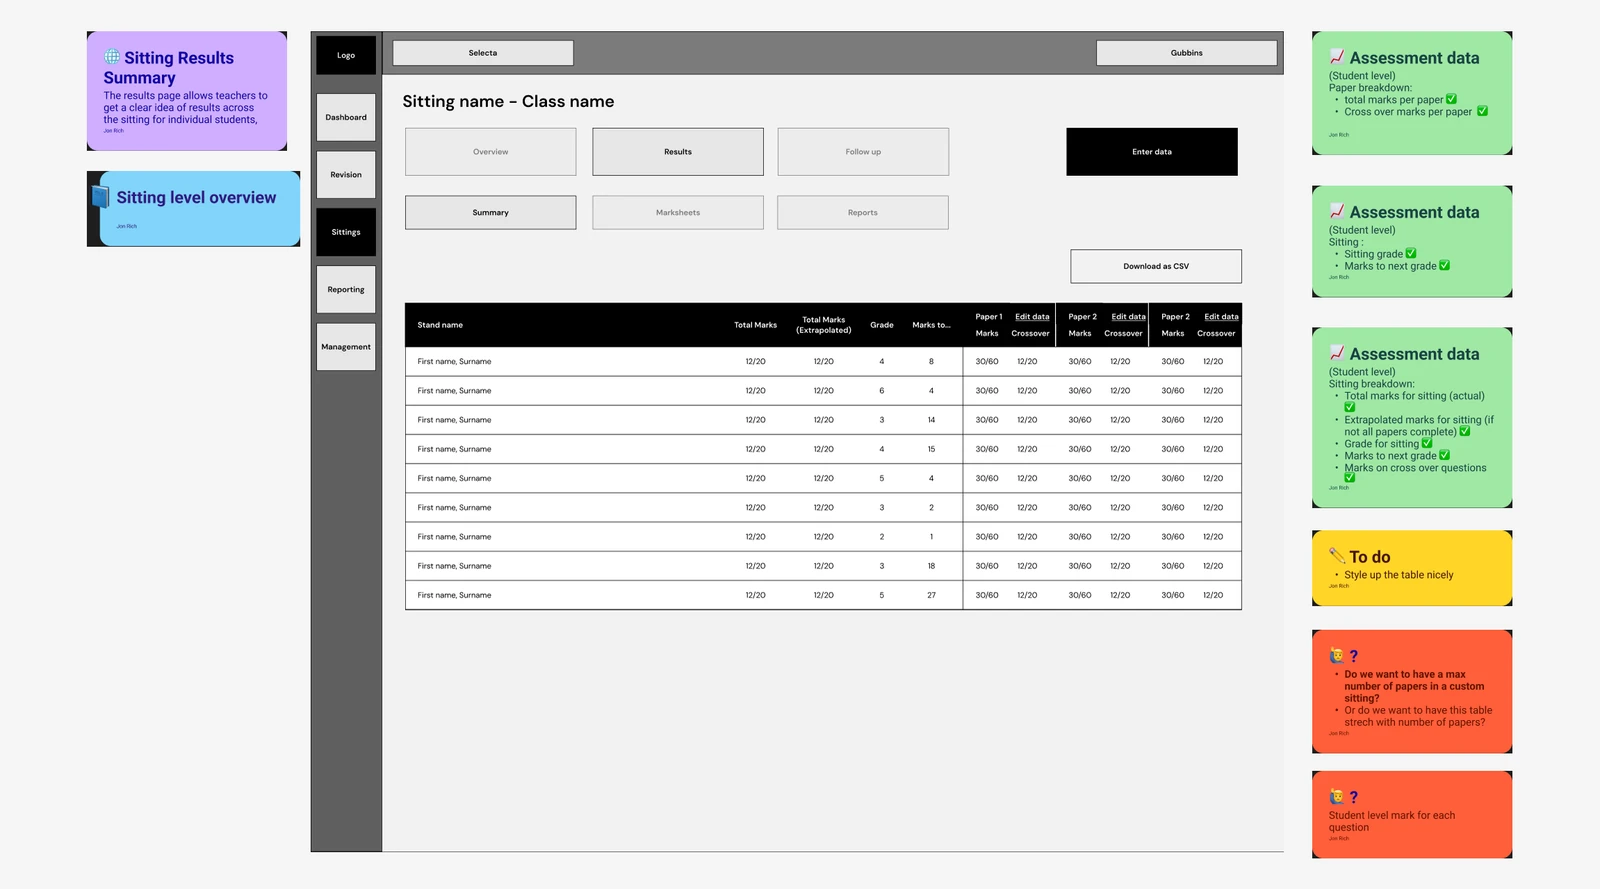
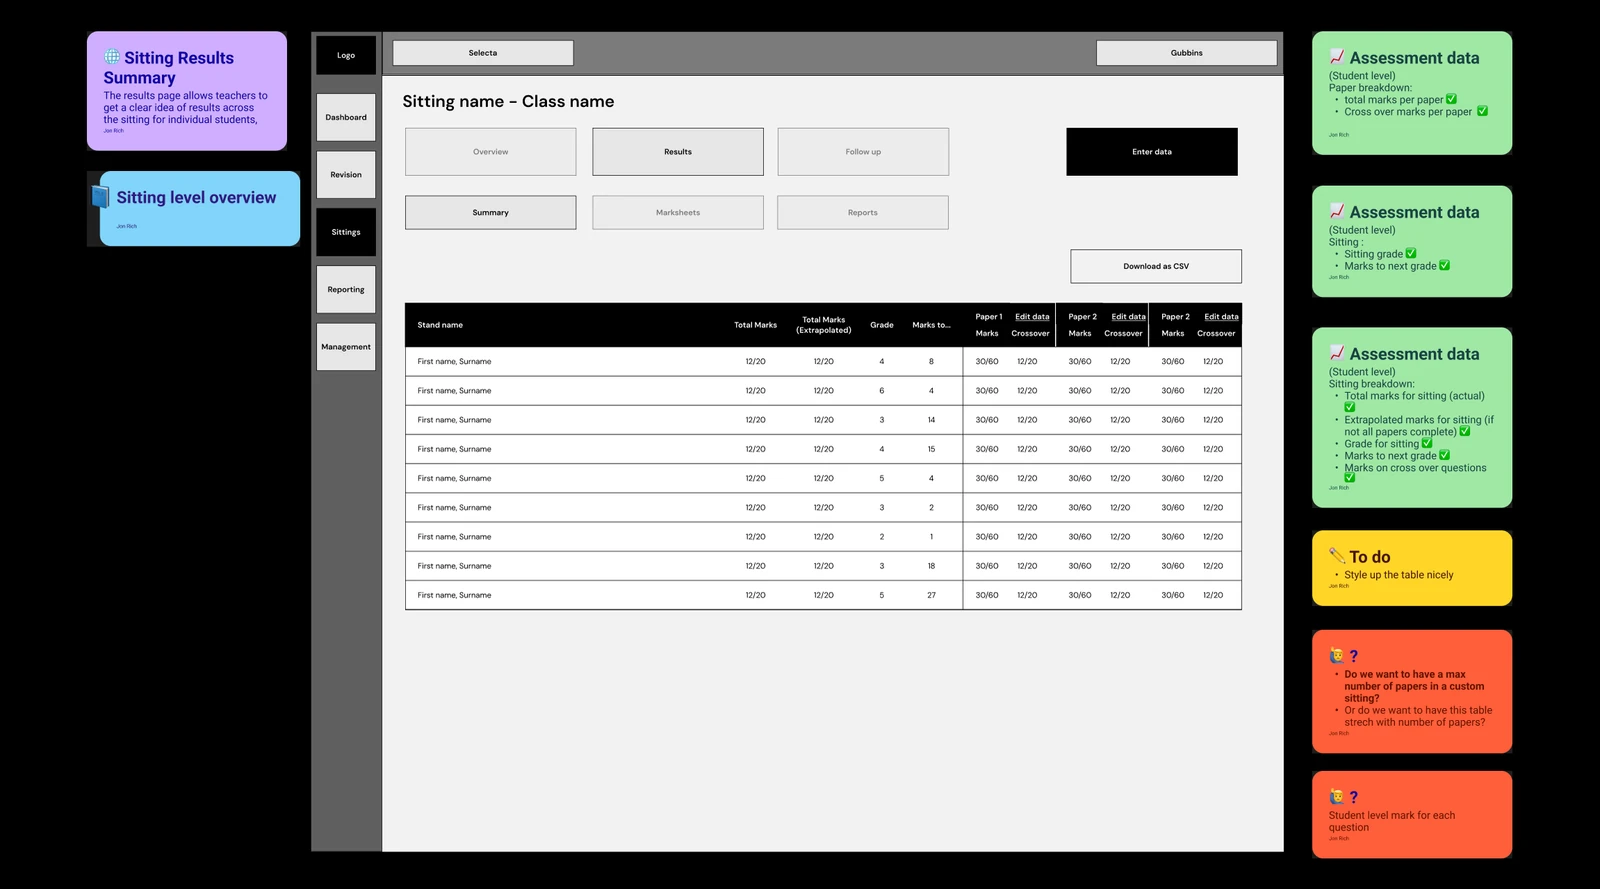
About: balena line

diff --git a/_includes/text-home.html b/_includes/text-home.html
@@ -42,7 +42,7 @@
       <p class="tx-lede" data-tx><span class="dropcap">I</span>’m currently a senior product designer at Sparx Learning, leading design across multiple products in their education portfolio.</p>
       <p data-tx>Every day is different, but it almost always involves working closely with product to get under the skin of the problems we face, working shoulder to shoulder with engineers to build delightful experiences, and always staying close to the thousands of teachers and 2.5 million students who are our users.</p>
       <p data-tx>I cut my teeth in publishing, working on the national magazine BBC Science Focus, before – via a side quest into the world of indie publishing – moving over to the world of design agencies. For six years I led teams to deliver work for tech clients including Ericsson, Klarna and Salesforce.</p>
-      <p data-tx>One thing was consistent: I was always the designer that ‘did digital’. Five years ago I made the move into product design, joining the team at balena at a time of rapid growth and expanding product offerings.</p>
+      <p data-tx>One thing was consistent: I was always the designer that ‘did digital’. Five years ago I made the move into product design, joining balena, a fully remote start-up in the middle of rapid growth. More opinions than time zones, and a product moving fast: my job was to bring some order to both. I was hooked.</p>
     </div>
   </section>
 

diff --git a/assets/js/layout.js b/assets/js/layout.js
@@ -374,9 +374,30 @@
     preview = { hide: hide };
   }
 
+  /* A page arrives once per visit (browser tab). Coming back to it, it's all
+     there as it was left; picking a new ink still replays the arrival. */
+  function showNow() {
+    if (observer) { observer.disconnect(); observer = null; }
+    clearPending();
+    root.classList.add("tx-instant");
+    all(HEADS + "," + LABELS + "," + RISE).forEach(function (el) { el.classList.add("is-in"); });
+    settleCounts();
+    void root.offsetWidth;
+    requestAnimationFrame(function () {
+      requestAnimationFrame(function () { root.classList.remove("tx-instant"); });
+    });
+  }
+
+  var seenKey = "jr-seen:" + location.pathname, seen = false;
+  try {
+    seen = sessionStorage.getItem(seenKey) === "1";
+    sessionStorage.setItem(seenKey, "1");
+  } catch (e) {}
+
   if (isText()) {
     setUpPreview();
     startText();
+    if (seen && root.classList.contains("tx-js")) showNow();
     /* /#work, /#about and /#blog point at the classic sections */
     var hash = location.hash.replace("#", "");
     var section = hash && document.getElementById("tx-" + hash);

diff --git a/_layouts/default.html b/_layouts/default.html
@@ -55,7 +55,7 @@
   <link rel="preload" href="{{ '/assets/fonts/ibm-plex-mono-latin-500-normal.woff2' | relative_url }}" as="font" type="font/woff2" crossorigin>
   <link rel="preload" href="{{ '/assets/fonts/ibm-plex-mono-latin-400-normal.woff2' | relative_url }}" as="font" type="font/woff2" crossorigin>
 
-  <link rel="stylesheet" href="{{ '/assets/css/main.css' | relative_url }}?v=43">
+  <link rel="stylesheet" href="{{ '/assets/css/main.css' | relative_url }}?v=45">
   {%- unless page.layout == "case-study" %}
   <script>
     /* Reprint this page in…: the site's accent, from a set of riso inks. Picked in
@@ -107,7 +107,7 @@
       setTimeout(function () { if (!window.jrLayout) root.classList.remove("tx-js"); }, 2500);
     })();
   </script>
-  <script src="{{ '/assets/js/layout.js' | relative_url }}?v=21" defer></script>
+  <script src="{{ '/assets/js/layout.js' | relative_url }}?v=22" defer></script>
   {%- if page.accent %}
   <script>
     /* A case study keeps its own ink (accent in its front matter). Set before paint. */

diff --git a/assets/css/main.css b/assets/css/main.css
@@ -2698,6 +2698,8 @@ html.lightbox-open { overflow: hidden; }
   color: var(--text);
   cursor: pointer;
 }
+.lightbox-close { display: inline-flex; align-items: center; gap: 0.55em; }
+.lightbox-close svg { width: 0.8em; height: 0.8em; flex: none; }
 .lightbox-close:hover { background: color-mix(in srgb, var(--accent) 11%, var(--bg)); }
 .lightbox-close:focus-visible { outline: 2px solid var(--accent); outline-offset: 2px; }
 @media (prefers-reduced-motion: reduce) {
@@ -2968,3 +2970,8 @@ html.is-webkit.tx-js[data-zine][data-layout="text"] .case-body .callout--glow.is
   .cv-label, .cv h4 { break-after: avoid; }
   .cv a { color: inherit !important; }
 }
+
+/* Returning to a page: everything is shown at once, with no arrival. */
+html.tx-instant *,
+html.tx-instant *::before,
+html.tx-instant *::after { transition: none !important; }

diff --git a/assets/js/lightbox.js b/assets/js/lightbox.js
@@ -12,7 +12,9 @@
   dialog.className = "lightbox";
   dialog.setAttribute("aria-label", "Image, full window");
   dialog.innerHTML =
-    '<button type="button" class="lightbox-close">Close <span aria-hidden="true">&times;</span></button>' +
+    '<button type="button" class="lightbox-close">Close' +
+      '<svg viewBox="0 0 12 12" aria-hidden="true"><path d="M2 2l8 8M10 2l-8 8" fill="none" stroke="currentColor" stroke-width="1.6" stroke-linecap="round"/></svg>' +
+    '</button>' +
     '<figure class="lightbox-figure">' +
       '<img class="lightbox-img" alt="">' +
       '<figcaption class="lightbox-caption"></figcaption>' +

diff --git a/_layouts/post.html b/_layouts/post.html
@@ -29,4 +29,4 @@ layout: default
     {{ content }}
   </div>
 </article>
-<script src="{{ '/assets/js/lightbox.js' | relative_url }}?v=2" defer></script>
+<script src="{{ '/assets/js/lightbox.js' | relative_url }}?v=3" defer></script>

diff --git a/_layouts/case-study.html b/_layouts/case-study.html
@@ -122,4 +122,4 @@ layout: default
   </nav>
   {%- endif %}
 </article>
-<script src="{{ '/assets/js/lightbox.js' | relative_url }}?v=2" defer></script>
+<script src="{{ '/assets/js/lightbox.js' | relative_url }}?v=3" defer></script>

diff --git a/_work/balena.md b/_work/balena.md
@@ -82,13 +82,11 @@ That varying guidance was the real problem the design system had to solve.
 {% capture key_decision %}
 Mapping who would use the design system put front-end engineers at its centre, with the product and design teams around them. That decided what we built first: not a designer’s component library, but specifications and design tokens engineers could trust and use directly.
 
-{% include pair.html
-  src_a="/assets/images/balena-tokens-text.webp"
-  alt_a="A token table for text colours, listing variants and roles with a swatch, token name, description, CSS variable and hex value for each."
-  caption_a="Text tokens. A name, a job description, the variable to use and the value, so nobody has to guess."
-  src_b="/assets/images/balena-tokens-border.webp"
-  alt_b="A token table for border colour roles: info, success, warning and danger, each with its token, description, variable and value."
-  caption_b="Border roles for messages and states. Same format every time, straight into the code."
+{% include figure.html
+  src="/assets/images/balena-tokens-text.webp"
+  alt="A token table for text colours, listing variants and roles with a swatch, token name, description, CSS variable and hex value for each."
+  caption="Text tokens. A name, a job description, the variable to use and the value, so nobody has to guess."
+  layout="wide"
 %}
 
 We shipped the tokens as an NPM package, and the engineers were quickly on board. The design team won too: we could create and update tokens in one place and watch the change flow through the products.
@@ -129,7 +127,7 @@ design.balena.io brought UI and UX guidelines together in a single, easy-to-upda
 Underneath sat a foundation layer: a base palette of colours, from which we defined a semantic layer for each product and website. That allowed variation between touchpoints while making sure everything came from the same source. From the marketing site right through to balenaCloud.
 
 {% include pair.html
-  src_a="/assets/images/balena-3.webp"
+  src_a="/assets/images/balena-design-system.webp"
   alt_a="The base colour palette in rows of graded swatches, beside a table of status colour tokens and examples of buttons built from them."
   caption_a="The foundations. One base palette, with semantic tokens for things like status built on top."
   src_b="/assets/images/balena-token-anatomy.webp"
